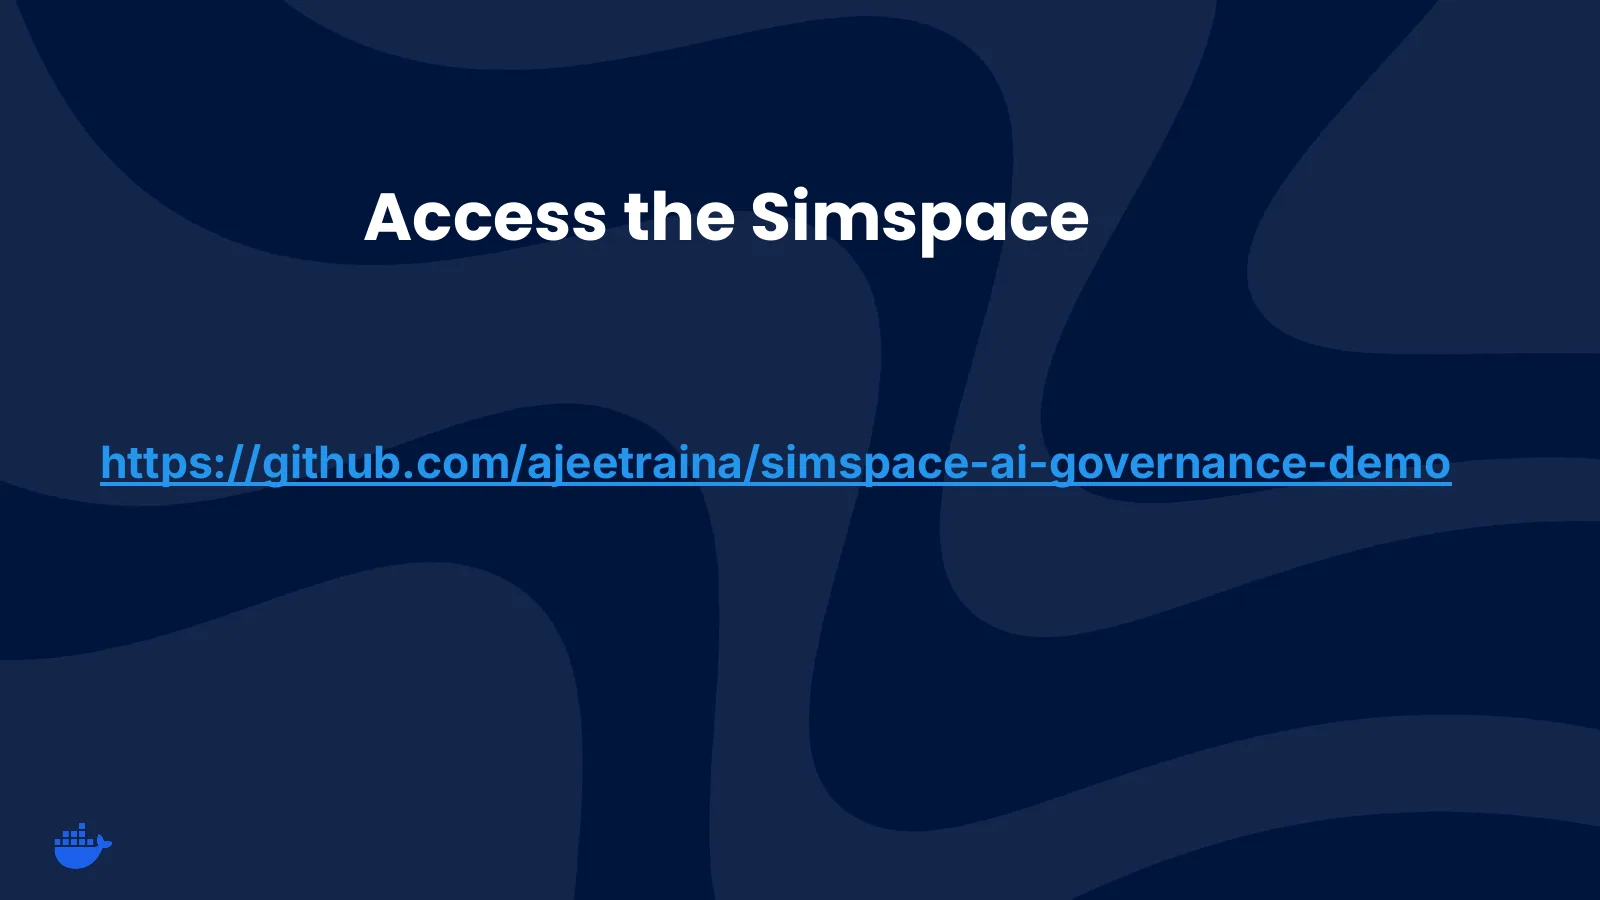
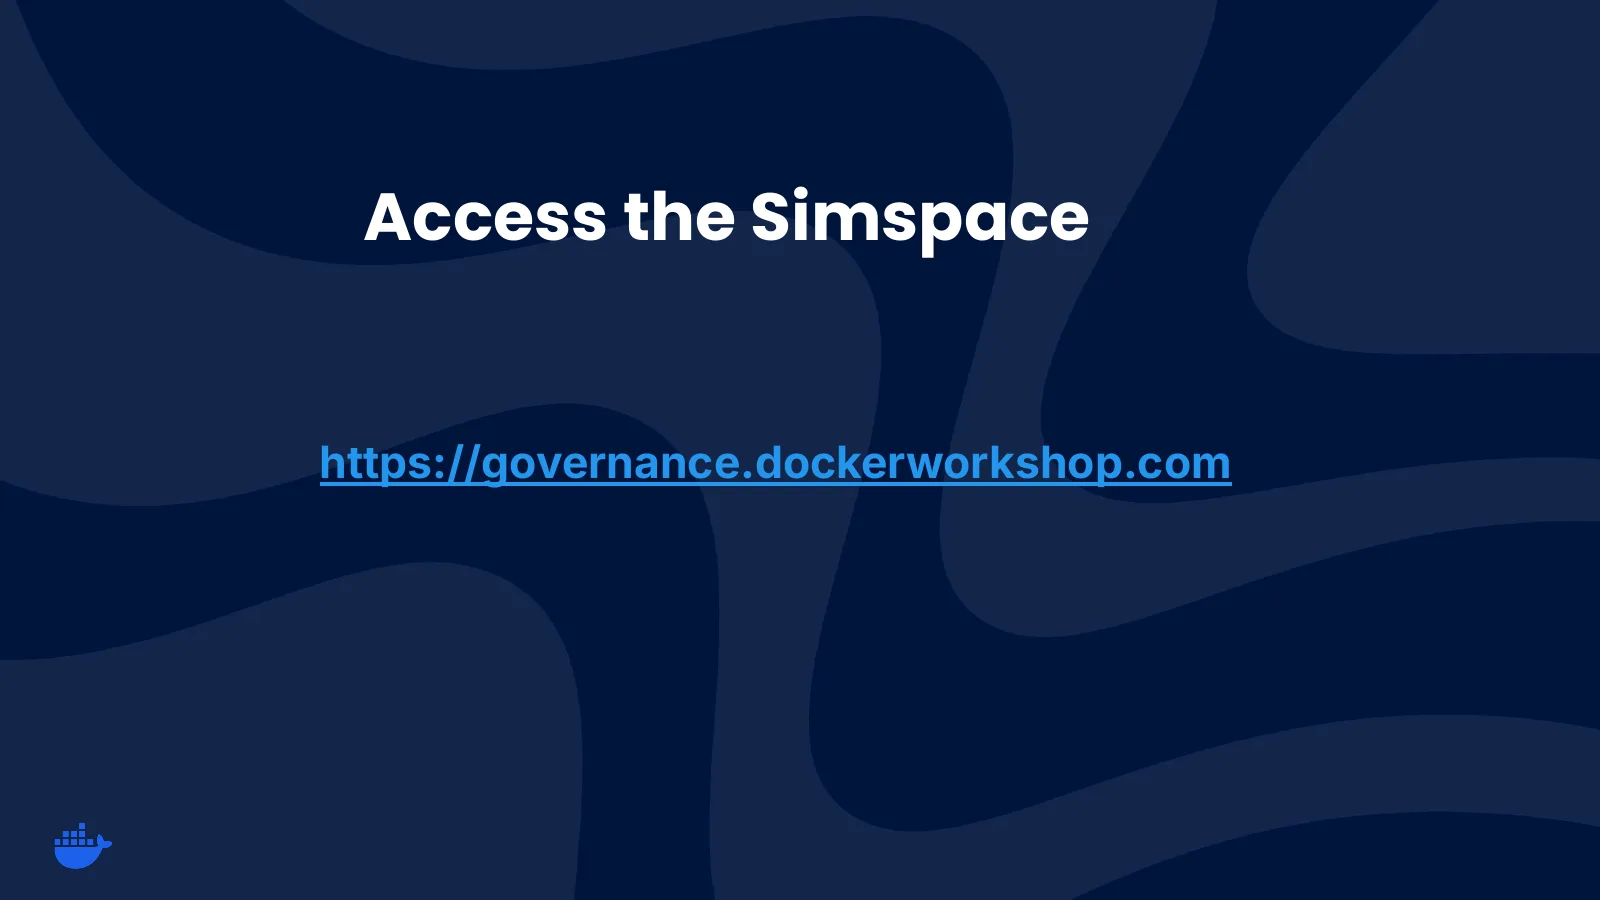
Update slides deck to workshop PDF v3
The updated deck (81 pages, was 79) revises a few slides and adds a
"Workshop - labs" progress board that gains a checkmark after each lab:

- slide-03: agenda replaced with the 4-lab breakdown
- slide-06: Simspace URL -> governance.dockerworkshop.com
- slide-06b (new): Lab 1 complete
- slide-22b (new): Labs 1-2 complete
- slide-34b (new): Labs 1-3 complete
- slide-76: now the all-4-labs-complete board (replaces the removed
  "Adding Tools to Sandbox" + sbx kits pair, slide-77 deleted)

Speaker notes and alt text updated to match; validation green.

Changed region(s): [[0.0625, 0.4978, 0.9062, 0.56]]

diff --git a/labs/ai-governance-slides/deck.md b/labs/ai-governance-slides/deck.md
@@ -16,9 +16,9 @@ Note: A quick word about who's guiding you today. I'm **Ajeet Singh Raina**, a D
 
 <!-- chrome: false -->
 
-<img src="assets/slide-03.webp" alt="Workshop agenda — six sections: Autonomy requires guardrails, Enforced not advised, A layered approach, Sandboxing the agent, Protecting MCP, Audit scale and wrap-up" width="1600" height="900" loading="lazy" decoding="async" style="position:absolute;inset:0;width:100%;height:100%;max-width:none;max-height:none;object-fit:fill" />
+<img src="assets/slide-03.webp" alt="Workshop - labs: four hands-on labs. Lab 1 Prerequisite & Setup (2 min) - Accessing the Workshop. Lab 2 Autonomy requires guardrails (15-20 min) - traditional vs agentic workflow, agents expand your attack surface, speed vs security, containerising the Product Catalog. Lab 3 AI Governance Stack (45 min) - layered approach, Docker Hardened Images, Gordon, intro to Docker Sandboxes. Lab 4 Securing the Agentic Stack (30 min) - sandboxing the AI coding agent, credential isolation, network and filesystem policy, MCP protection, audit logs and visibility." width="1600" height="900" loading="lazy" decoding="async" style="position:absolute;inset:0;width:100%;height:100%;max-width:none;max-height:none;object-fit:fill" />
 
-Note: Here's our roadmap for today, six sections in a deliberate arc. We open with **Autonomy requires guardrails** to establish why agents need governance at all, then **Enforced, not advised** to draw the line between soft policy and hard mechanisms, and **A layered approach** to lay out the Docker governance stack. Then we roll up our sleeves: forty minutes on **Sandboxing the agent** — isolation, secrets, network, filesystem, and models — followed by **Protecting MCP** where we govern the tools agents call, and finally **Audit, scale & wrap-up** to give your security team the proof they'll ask for. Notice the two biggest blocks are hands-on; that's intentional, because governance you can't demonstrate isn't governance. Before we dive in, here are the four takeaways I want you leaving with.
+Note: Here's how the day is actually structured — **four hands-on labs**, and I'll bring this same slide back with a checkmark each time we finish one. **Lab 1 - Prerequisite & Setup**, about two minutes, is just getting into the workshop environment. **Lab 2 - Autonomy requires guardrails**, fifteen to twenty minutes, covers the traditional-versus-agentic workflow, how agents expand your attack surface, the speed-versus-security tension, and containerising our Product Catalog app. **Lab 3 - the AI Governance Stack**, the big forty-five-minute block, walks the layered approach: Docker Hardened Images, Gordon, and an introduction to Docker Sandboxes. And **Lab 4 - Securing the Agentic Stack**, thirty minutes, is the hands-on payoff: sandboxing the coding agent, credential isolation, network and filesystem policy, MCP protection, and audit logs. Keep this map in mind as we go. Before we dive in, here are the four takeaways I want you leaving with.
 
 ---
 
@@ -40,9 +40,17 @@ Note: Now let's get you set up with your own hands-on environment. We call the i
 
 <!-- chrome: false -->
 
-<img src="assets/slide-06.webp" alt="Access the Simspace — link to github.com/ajeetraina/simspace-ai-governance-demo" width="1600" height="900" loading="lazy" decoding="async" style="position:absolute;inset:0;width:100%;height:100%;max-width:none;max-height:none;object-fit:fill" />
+<img src="assets/slide-06.webp" alt="Access the Simspace — link to https://governance.dockerworkshop.com" width="1600" height="900" loading="lazy" decoding="async" style="position:absolute;inset:0;width:100%;height:100%;max-width:none;max-height:none;object-fit:fill" />
 
-Note: Here's your entry point — **github.com/ajeetraina/simspace-ai-governance-demo**. Go ahead and open that now; everything we do today lives in this repo, including the labs, the policies, and the running Product Catalog example we'll thread through the whole session. Take a moment to make sure the page loads for you before we move on, and flag me if anyone's stuck. Once you're in, we can start with the real question behind this entire workshop: why autonomy demands guardrails.
+Note: Here's your entry point — **governance.dockerworkshop.com**. Go ahead and open that now; everything we do today lives there, including all four labs, the policies, and the running Product Catalog example we'll thread through the whole session. Take a moment to make sure the page loads for you before we move on, and flag me if anyone's stuck. Opening this environment is Lab 1 — so once you're in, you've already finished the first lab.
+
+---
+
+<!-- chrome: false -->
+
+<img src="assets/slide-06b.webp" alt="Workshop - labs progress: Lab 1 Prerequisite & Setup is marked complete with a green check; Labs 2, 3, and 4 still ahead." width="1600" height="900" loading="lazy" decoding="async" style="position:absolute;inset:0;width:100%;height:100%;max-width:none;max-height:none;object-fit:fill" />
+
+Note: And there's our first checkmark — **Lab 1, Prerequisite & Setup, is done**. You're in the environment, so the plumbing is behind us and we can focus on the ideas. I'll keep coming back to this board so you always know where we are on the map. Next up is **Lab 2 - Autonomy requires guardrails**, which is where we confront the real question behind this entire workshop: why autonomy demands guardrails.
 
 ---
 
@@ -176,6 +184,14 @@ Note: So let me introduce the **AI Governance Stack**, Docker's answer to that "
 
 <!-- chrome: false -->
 
+<img src="assets/slide-22b.webp" alt="Workshop - labs progress: Lab 1 Prerequisite & Setup and Lab 2 Autonomy requires guardrails are both marked complete with green checks; Labs 3 and 4 still ahead." width="1600" height="900" loading="lazy" decoding="async" style="position:absolute;inset:0;width:100%;height:100%;max-width:none;max-height:none;object-fit:fill" />
+
+Note: Second checkmark on the board — **Lab 2 is done**. We've felt the problem: the traditional-versus-agentic workflow, how agents blow up your attack surface, the speed-versus-security tension, and we watched an agent containerise our Product Catalog with no guardrails. So the "why" is settled. From here we shift into **Lab 3 - the AI Governance Stack**, where we stop describing the problem and start building the layered controls that fix it. Let me introduce that stack.
+
+---
+
+<!-- chrome: false -->
+
 <img src="assets/slide-23.webp" alt="'AI Governance: One console to govern AI Agents and Claws across your entire organisation.' Bulleted benefits: one engine with three layers of control (sandbox, network, MCP), complete audit trails, centralized credential management across MCP servers, automated policy enforcement, governance for every stakeholder, and runtime PII redaction." width="1600" height="900" loading="lazy" decoding="async" style="position:absolute;inset:0;width:100%;height:100%;max-width:none;max-height:none;object-fit:fill" />
 
 Note: This is the promise stated plainly: **one console to govern AI agents across your entire organisation**. One engine gives you **three layers of control**, sandbox, network, and MCP, so you're governing isolation, egress, and tool access from the same place. Around that you get the things a security team actually asks for: **complete audit trails, centralized credential management across every MCP server, automated policy enforcement, and runtime PII redaction** before data ever reaches an agent or a log. And crucially, **policy propagates automatically** from security leaders down to every developer, so nobody has to remember to be safe. Now let me break that single engine into its layers so you can see how it's built.
@@ -267,6 +283,14 @@ Note: Here's **the whole ecosystem on one slide** — all six layers working tog
 <img src="assets/slide-34.webp" alt="Keeping your system safe with multiple layers of security — four cards: Kernel level isolation (microVMs give separate kernel space for untrusted AI agent workloads), Rootless by default (microVMs run without privileged access, host compromise prevented even with container escape), Network (allowlist-based egress filtering at the VM boundary, block-by-default, secrets not exposed to agent), and MCP Servers (private catalog, servers run isolated, secrets engine protects secrets from server)." width="1600" height="900" loading="lazy" decoding="async" style="position:absolute;inset:0;width:100%;height:100%;max-width:none;max-height:none;object-fit:fill" />
 
 Note: This slide is the one to show your **security team**, because it names the concrete mechanisms — four of them. **Kernel-level isolation** means each agent gets its own **microVM with separate kernel space**, so an untrusted agent workload isn't sharing a kernel with your host. **Rootless by default** is the crucial follow-on: the microVMs run without privileged access, so even a full **container escape doesn't hand over the host**. On the **network** side, egress is **allowlist-based and block-by-default at the VM boundary**, and **secrets are never exposed to the agent** directly. And for **MCP servers**, there's a **private catalog**, the servers run isolated, and a **secrets engine keeps credentials away from the server** itself. These are hard, enforced controls — not advice — and next we drop into the hands-on portion where we sandbox a real agent.
+
+---
+
+<!-- chrome: false -->
+
+<img src="assets/slide-34b.webp" alt="Workshop - labs progress: Lab 1 Prerequisite & Setup, Lab 2 Autonomy requires guardrails, and Lab 3 AI Governance Stack are all marked complete with green checks; only Lab 4 remains." width="1600" height="900" loading="lazy" decoding="async" style="position:absolute;inset:0;width:100%;height:100%;max-width:none;max-height:none;object-fit:fill" />
+
+Note: Third checkmark — **Lab 3, the AI Governance Stack, is complete**. We've walked all six layers, seen Docker Hardened Images collapse the CVE count, met Gordon, and been introduced to Docker Sandboxes. So the *stack* is on the table. Only **Lab 4 - Securing the Agentic Stack** remains, and that's the biggest hands-on payoff: we take everything conceptual and actually enforce it - sandboxing the coding agent, isolating credentials, locking down network and filesystem, protecting MCP, and reading the audit trail. Let's roll up our sleeves and sandbox a real agent.
 
 ---
 
@@ -594,23 +618,15 @@ Note: Step six closes the loop: the **Audit Logs** page, where you **review ever
 
 <img src="assets/slide-75.webp" alt="References slide listing the link https://www.docker.com/products/ai-governance/" width="1600" height="900" loading="lazy" decoding="async" style="position:absolute;inset:0;width:100%;height:100%;max-width:none;max-height:none;object-fit:fill" />
 
-Note: Everything we just walked through — the console, the policies, the audit logs — is documented at the one link on this slide: **docker.com/products/ai-governance**. I'd encourage you to bookmark it, because it's the canonical starting point when you go to set this up for your own organization. If you take one URL away from today, this is the one. Now, before we wrap, I want to briefly show how you extend the sandbox itself with new capabilities.
+Note: Everything we just walked through — the console, the policies, the audit logs — is documented at the one link on this slide: **docker.com/products/ai-governance**. I'd encourage you to bookmark it, because it's the canonical starting point when you go to set this up for your own organization. If you take one URL away from today, this is the one. And with the audit trail covered, **Lab 4 is complete** — so let's look at the finished board.
 
 ---
 
 <!-- chrome: false -->
 
-<img src="assets/slide-76.webp" alt="Section title slide: Adding Tools to Sandbox, with the Docker logo on a dark navy wave background" width="1600" height="900" loading="lazy" decoding="async" style="position:absolute;inset:0;width:100%;height:100%;max-width:none;max-height:none;object-fit:fill" />
+<img src="assets/slide-76.webp" alt="Workshop - labs progress: all four labs complete - Lab 1 Prerequisite & Setup, Lab 2 Autonomy requires guardrails, Lab 3 AI Governance Stack, and Lab 4 Securing the Agentic Stack - each marked with a green check." width="1600" height="900" loading="lazy" decoding="async" style="position:absolute;inset:0;width:100%;height:100%;max-width:none;max-height:none;object-fit:fill" />
 
-Note: This short section answers a question I always get at this point: "The governance is great, but how do I actually add real capabilities to the sandbox?" So far we've focused on constraining the agent; now let's look at extending it — giving it memory, models, and tools — while keeping every one of those guardrails intact. The theme here is that you can make an agent genuinely powerful without punching holes in the isolation. Let me show you the architecture with a concrete example.
-
----
-
-<!-- chrome: false -->
-
-<img src="assets/slide-77.webp" alt="Adding tools to Sandbox via sbx kits — architecture diagram of a host machine containing a microVM-based sandbox with an Agent/Claude container, a Mem0 memory layer (Kind: mixin), a Qdrant local store, and Docker Model Runner on the host running ai/gemma3 (LLM) and ai/mxbai-embed-large (embedder), with network policies and secrets feeding a Network Policy box before any External Systems; note: the memory loop stays on the host, nothing crosses to external systems" width="1600" height="900" loading="lazy" decoding="async" style="position:absolute;inset:0;width:100%;height:100%;max-width:none;max-height:none;object-fit:fill" />
-
-Note: This diagram shows how you add tools with **sbx kits**, and I love it because it proves governance and capability aren't in tension. Inside the **microVM-based sandbox**, the agent gets a real **Mem0 memory layer** — delivered as a "mixin" kit — backed by a **Qdrant local store**, and it uses **Docker Model Runner on the host** to run `gemma3` for the LLM and `mxbai-embed-large` for embeddings. Here's the crucial part, in blue on the right: **the entire memory loop stays on the host — nothing crosses to external systems**, and any traffic that would leave still passes through the **Network Policy** box we configured earlier, fed by our secrets and network rules. So the agent gets persistent memory and local models, a genuinely capable setup, yet the data never leaves your machine and every egress is still governed. That's the whole thesis of this workshop in one picture, which is the perfect note to close on.
+Note: And there's the finished board — **all four labs complete**. Look at what you actually did today: got into the environment, felt why autonomy needs guardrails, walked the full AI Governance Stack, and then hands-on **secured the agentic stack** end to end — sandboxing, credential isolation, network and filesystem policy, MCP protection, and the audit trail. That's not a demo you watched; it's a system you drove yourself. Every checkmark on this board is an enforced control you can take back to your own environment. Let me leave you with the one line that sums it all up.
 
 ---
 
